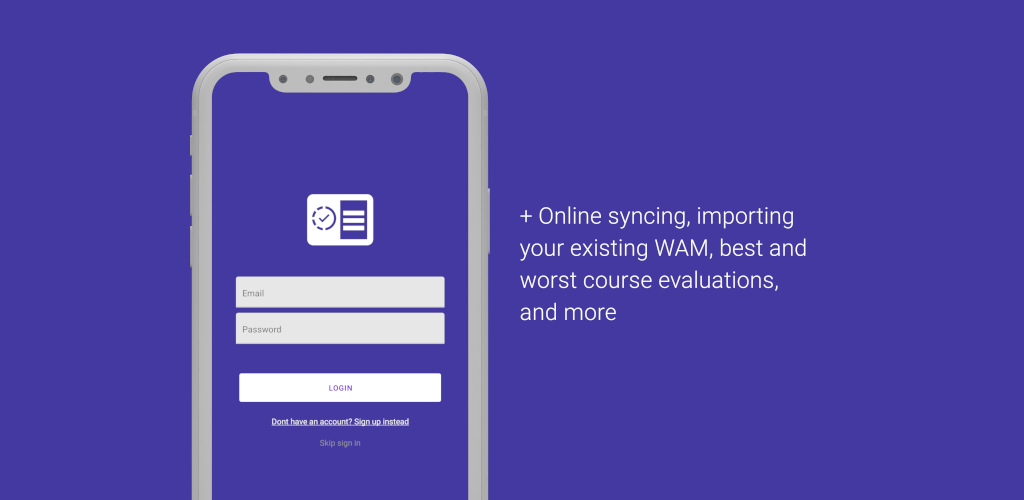
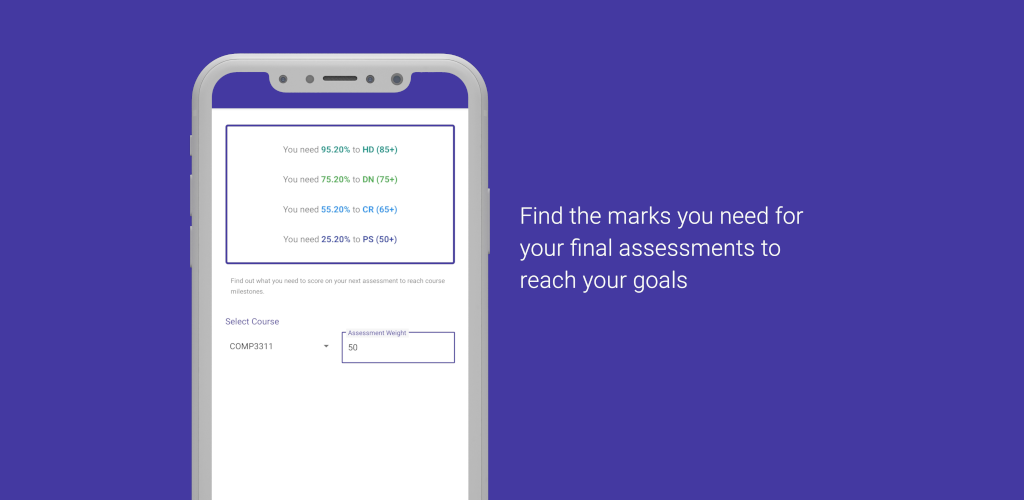
mywam new screenshot

diff --git a/src/pages/ProjectsPage.js b/src/pages/ProjectsPage.js
@@ -27,6 +27,7 @@ import bnMywam1 from '../assets/banner_mywam1.png';
 import bnMywam2 from '../assets/banner_mywam2.png';
 import bnMywam3 from '../assets/banner_mywam3.png';
 import bnMywam4 from '../assets/banner_mywam4.png';
+import bnMywam5 from '../assets/banner_mywam5.png';
 
 import { 
   Android, 
@@ -68,7 +69,7 @@ const projMedia = {
   {
     "icon": icMywam,
     "banners": [bnMywam, bnMywam1, bnMywam2, bnMywam3,
-      bnMywam4],
+      bnMywam4, bnMywam5],
   }
 }
 
